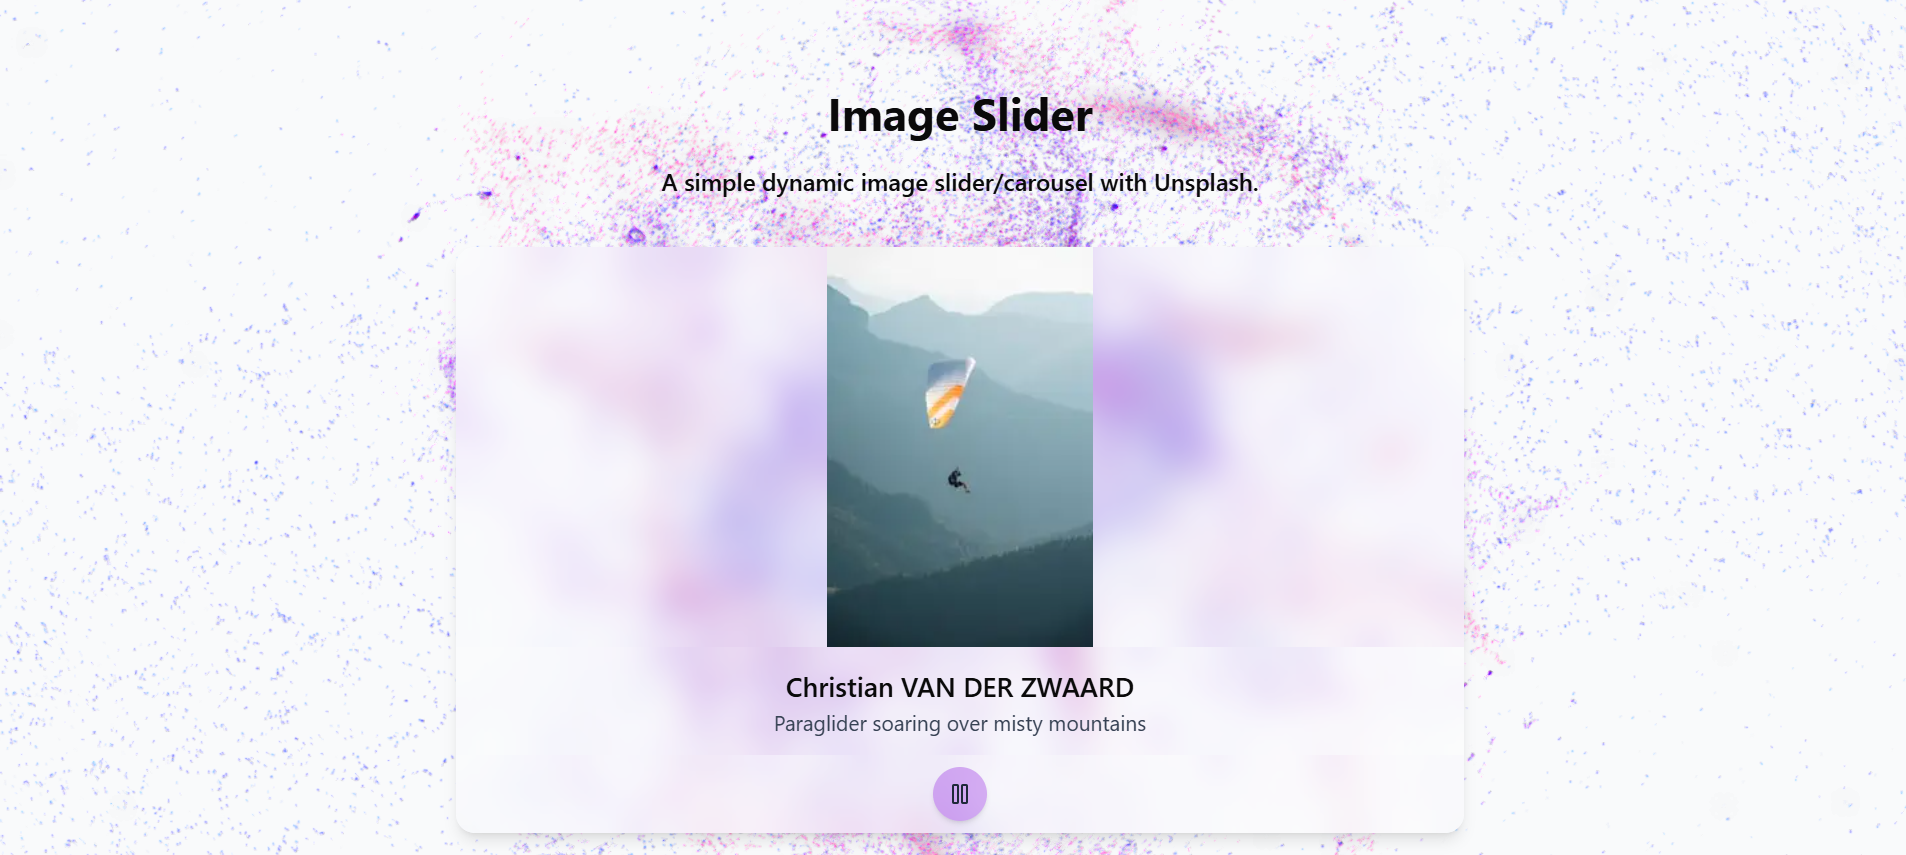
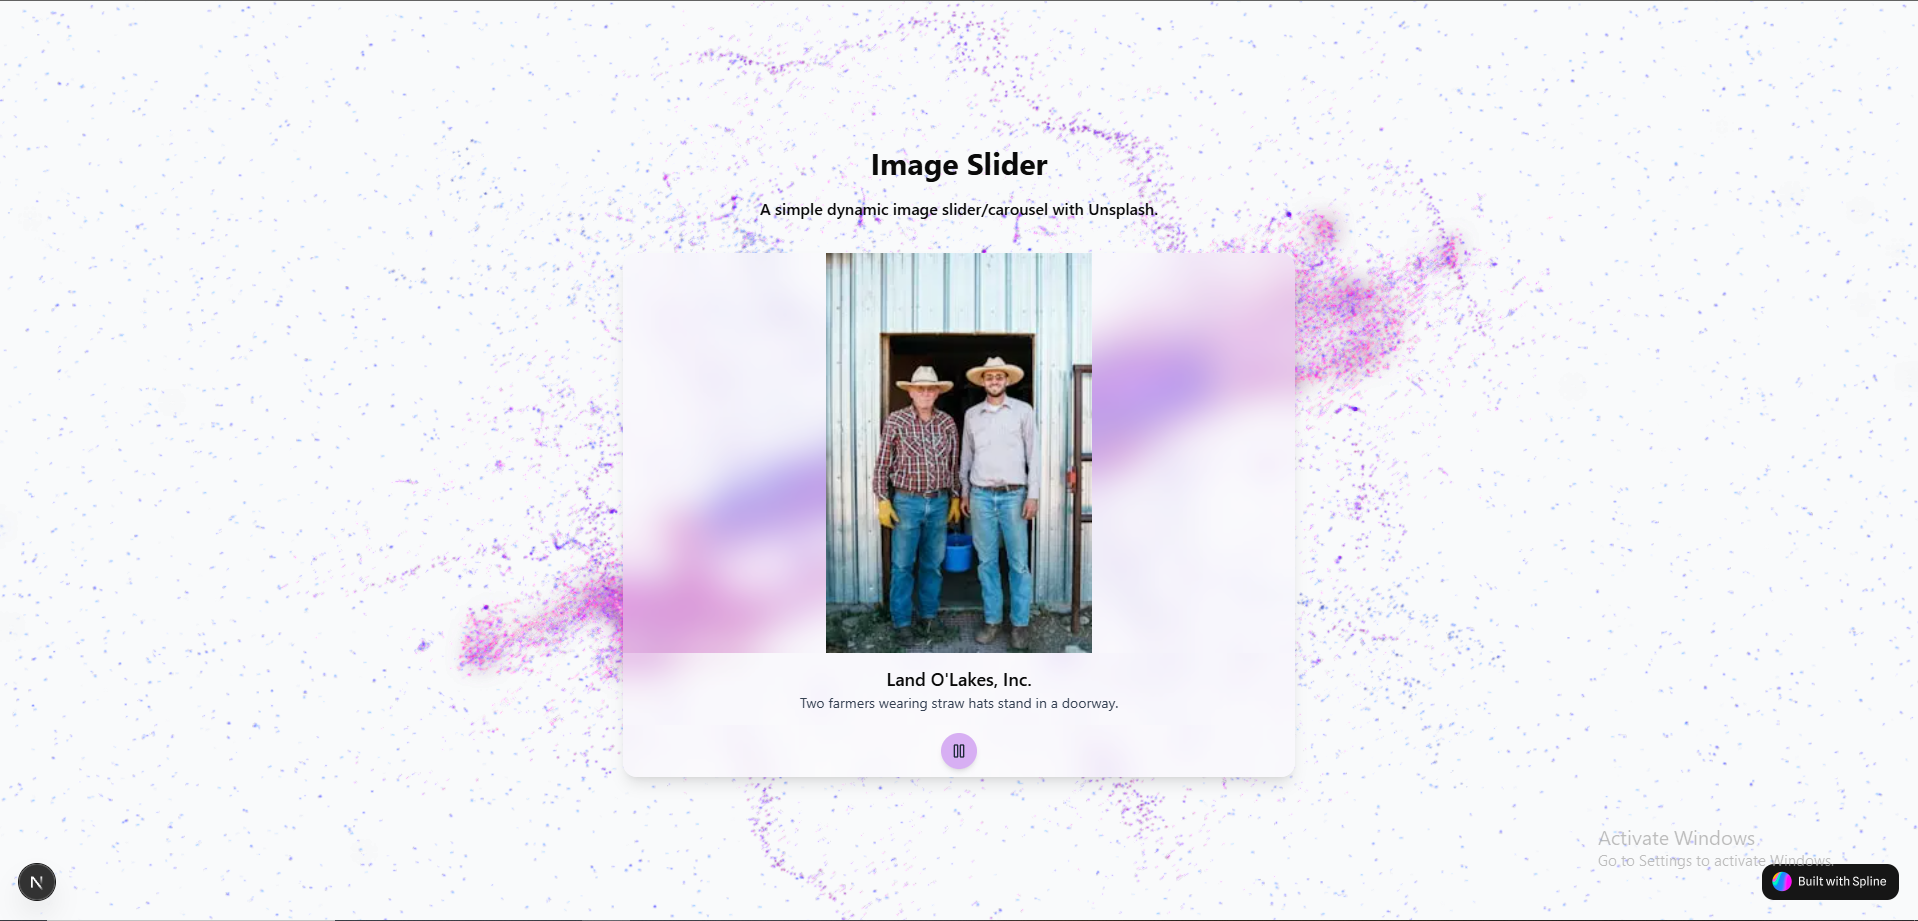
Update README and image files
- Remove outdated app link from README
- Update image slider screenshot

diff --git a/Frontend/image_slider_app/README.md b/Frontend/image_slider_app/README.md
@@ -10,9 +10,6 @@ A modern, responsive image slider built with Next.js, TypeScript, and Tailwind C
 
 ---
 
-**Image Slider App [Link](https://image-slider-osama.vercel.app/)**
-
-
 ## Introduction
 
 ## Features
